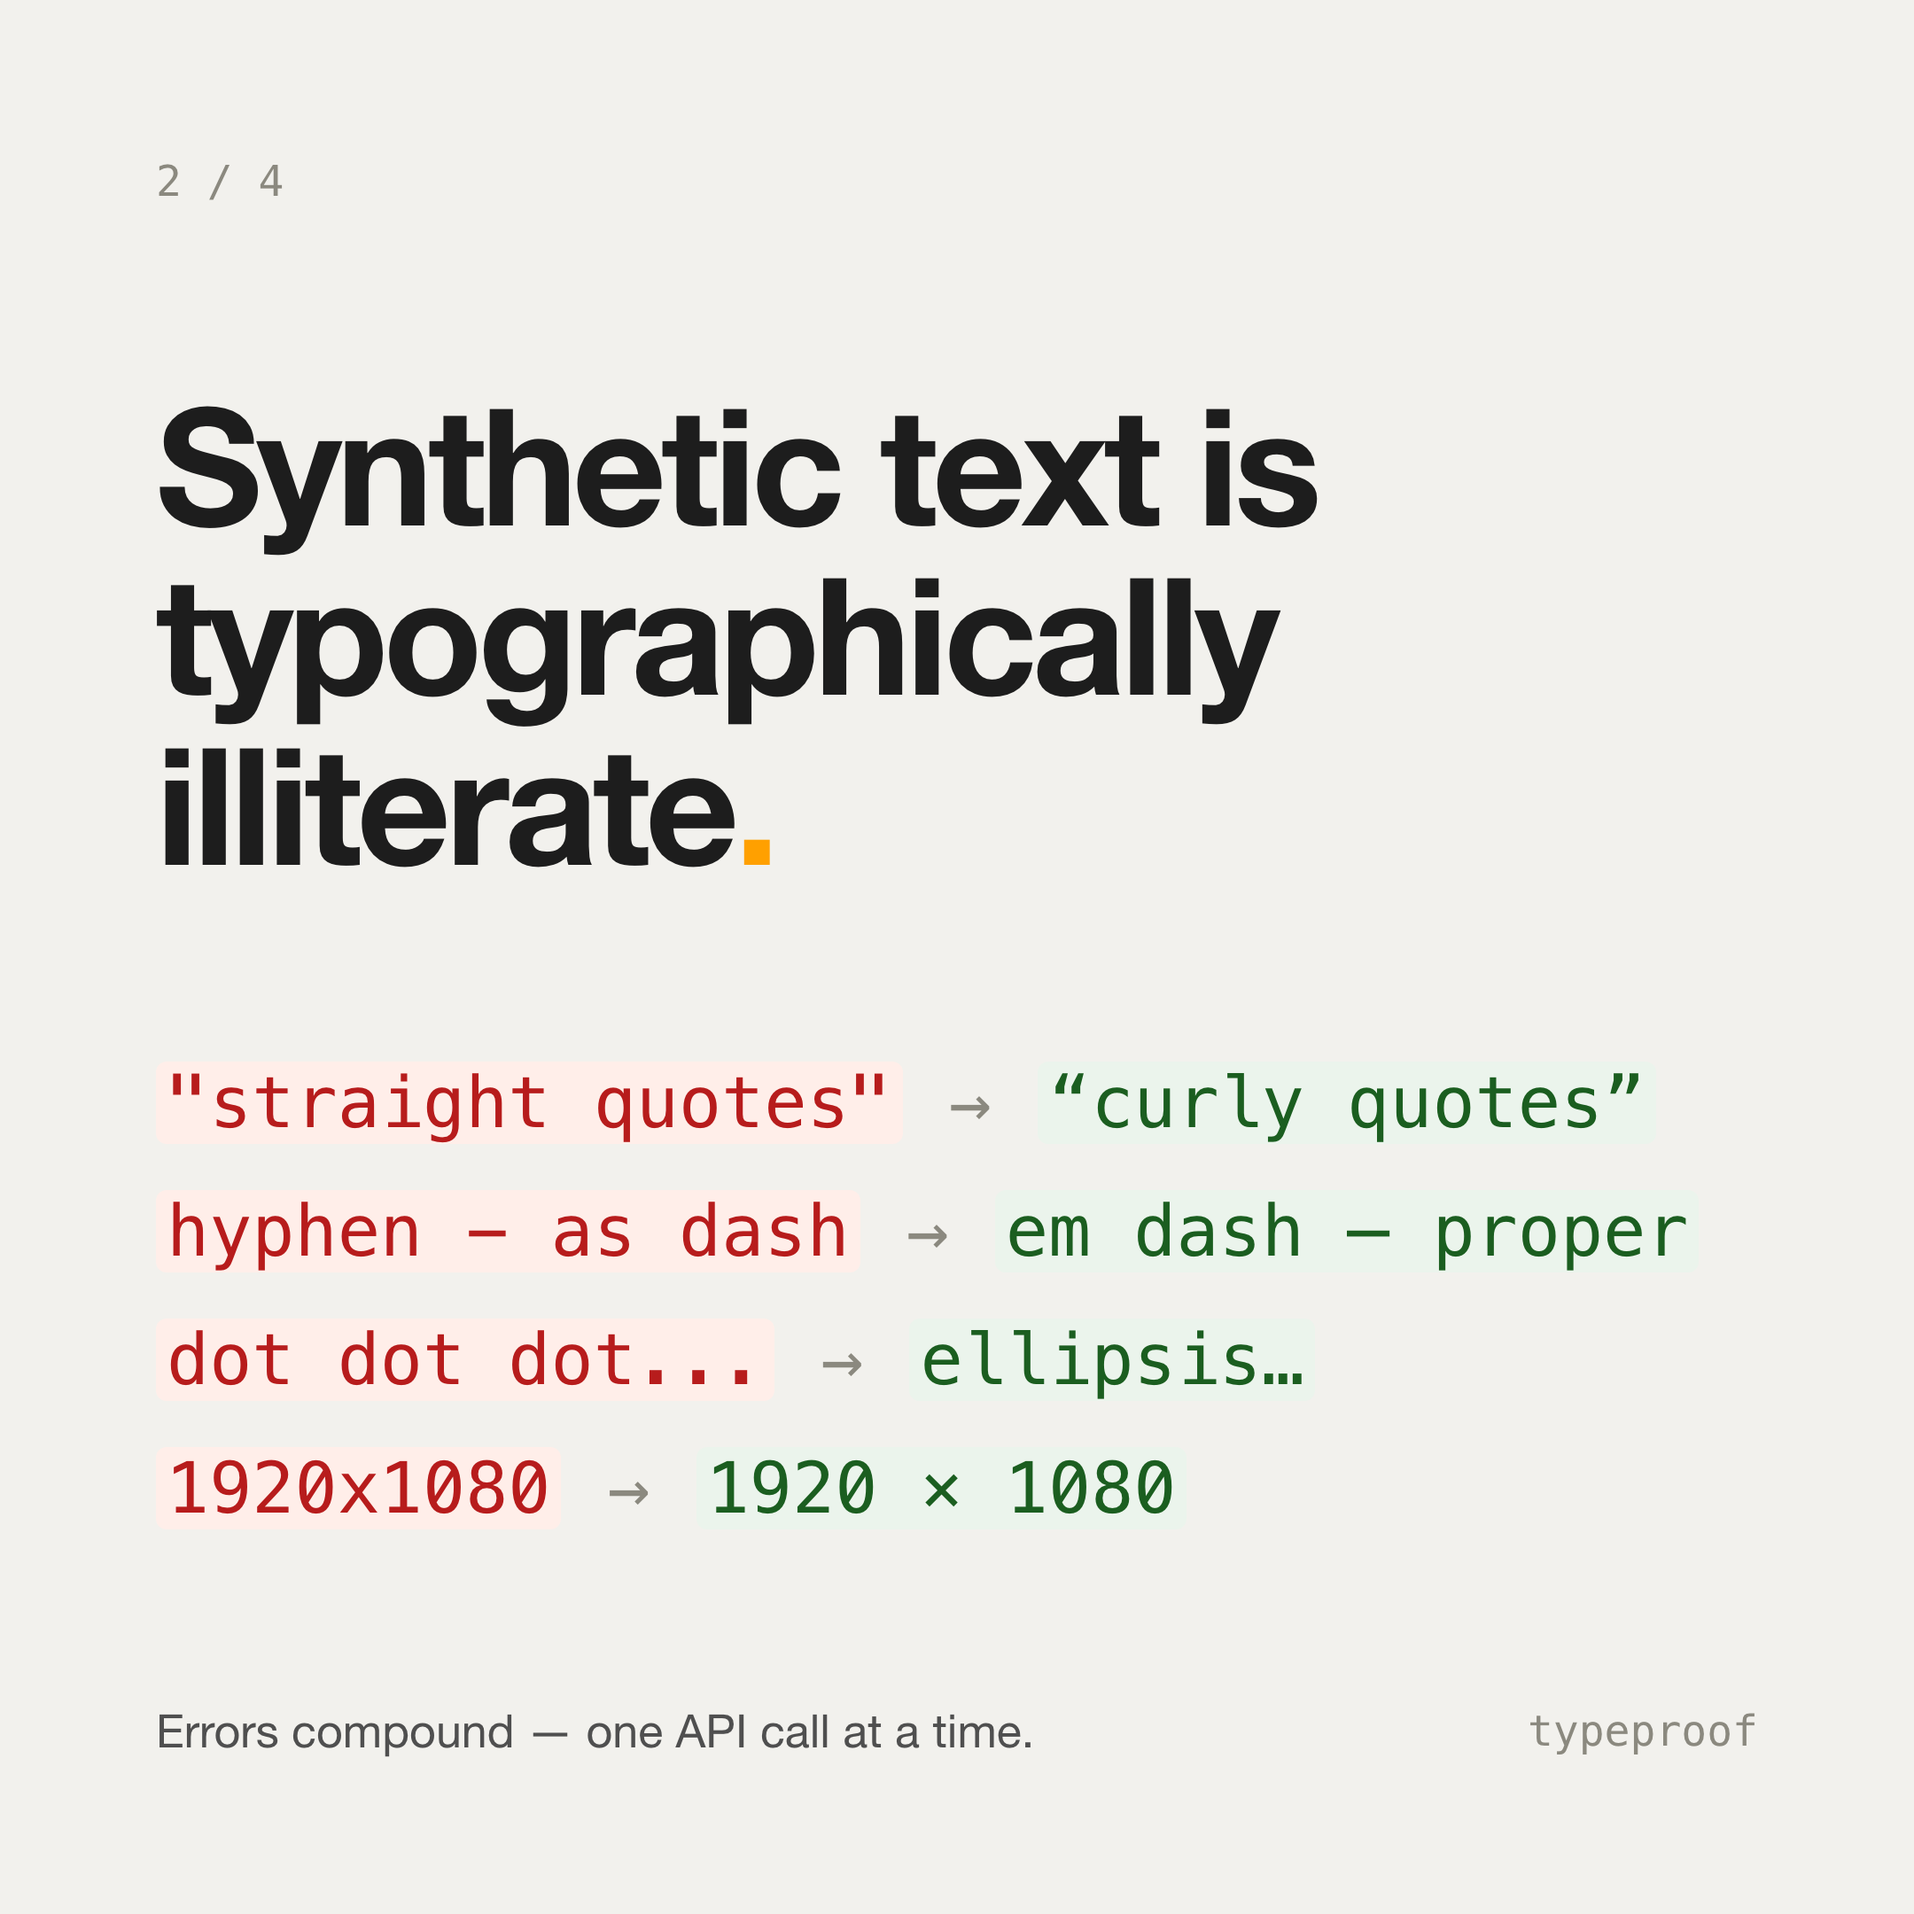
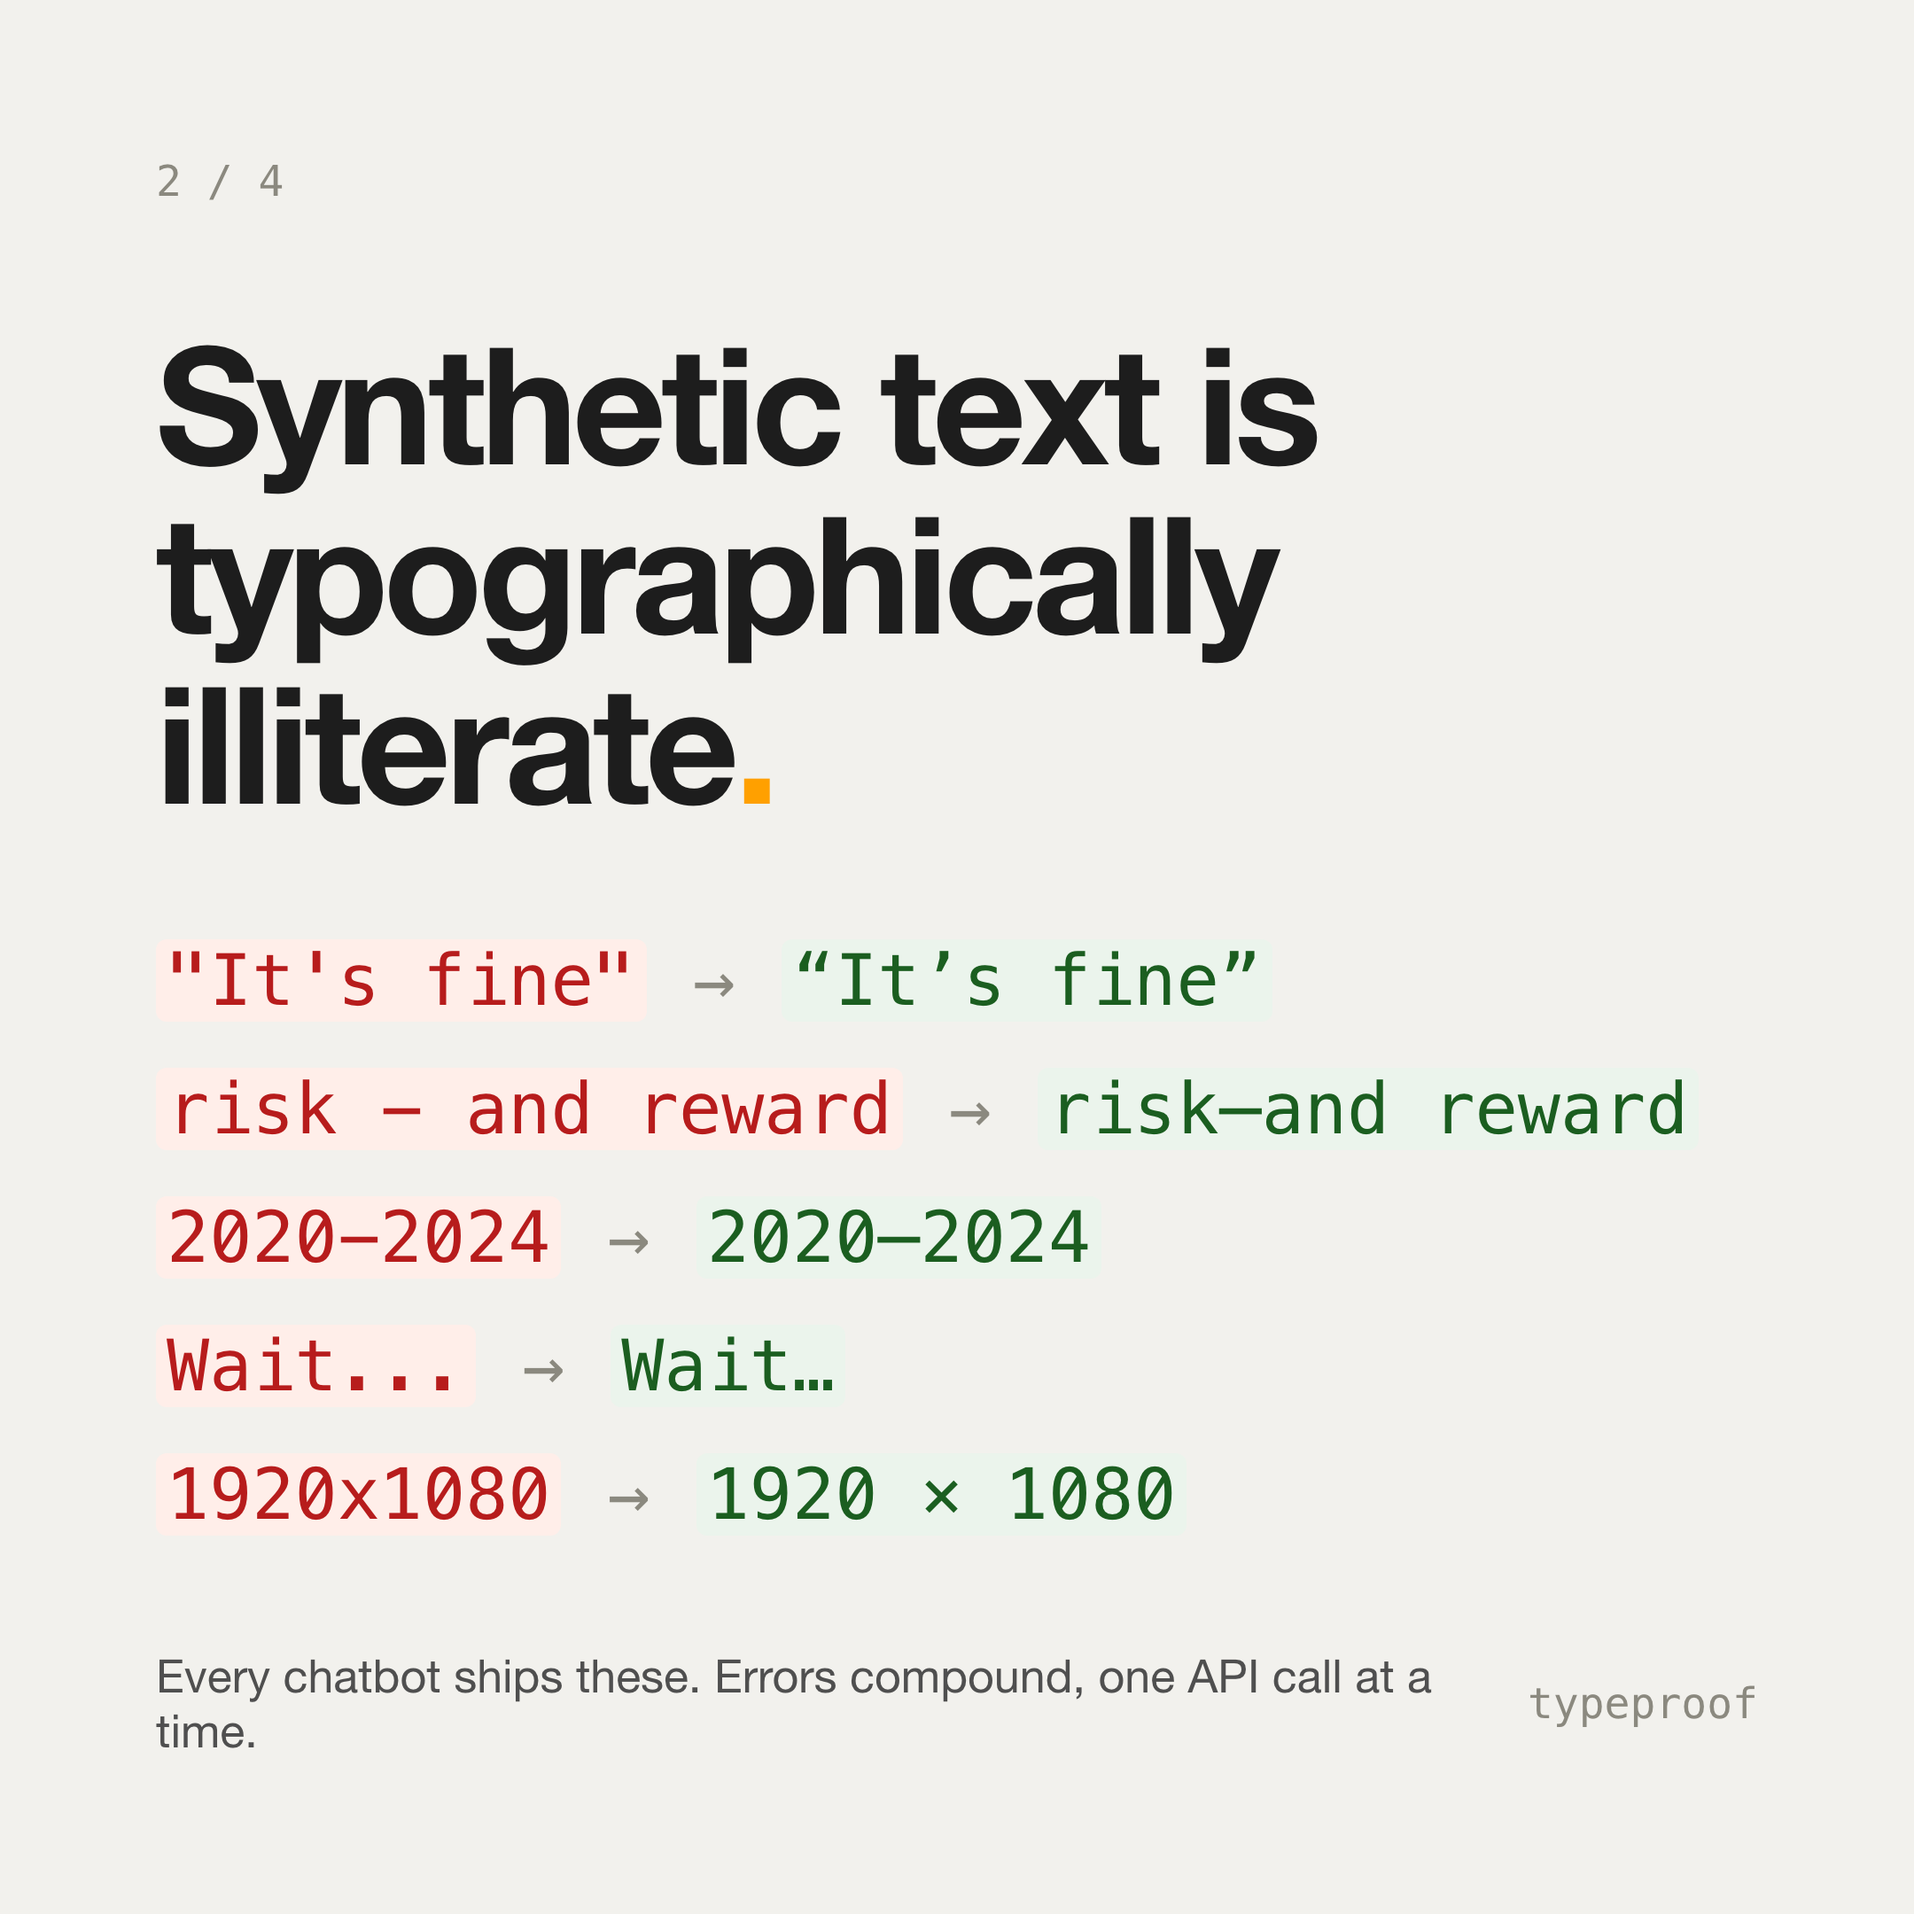
promo: recast examples as LLM output; add en-US/en-GB nuance diff
Every raw line is now tagged as LLM output — the launch story is
that synthetic text ships broken typography. The hero diff on the
LinkedIn and Discord frames corrects the same LLM sentence twice,
en-US vs en-GB: double vs single quotes, comma inside vs outside
the quote, unspaced em dash vs spaced en dash.

The language-DNA carousel frame now derives all locales from one
LLM raw ("hello") — en-US, en-GB, de-DE, pt-PT (thin spaces),
fr-FR (NNBSP), ro-RO. Problem-frame rows switched to LLM-typical
failures (straight apostrophe in contractions, spaced hyphen as
dash, range hyphen, three dots, x for dimensions).

diff --git a/promo/typeproof-social-kit.html b/promo/typeproof-social-kit.html
@@ -48,13 +48,16 @@
   .pill{border:2px solid var(--ink);border-radius:9999px;padding:8px 22px;font-size:22px;font-weight:500;}
   .pill.amber{border-color:var(--amber);background:var(--amber);color:var(--ink);}
   .ghost{position:absolute;font-weight:700;color:var(--amber-soft);line-height:1;user-select:none;z-index:0;}
+  .tag{font-family:var(--mono);font-size:19px;font-weight:500;color:var(--ink-2);background:#E7E5DF;border-radius:9999px;padding:5px 16px;margin-right:16px;white-space:nowrap;}
+  .tag.loc{color:var(--amber-dark);background:var(--amber-soft);}
   .z{position:relative;z-index:1;}
 
   /* ——— LinkedIn 1200×627 ——— */
   .f-li{width:1200px;height:627px;padding:72px 80px;box-sizing:border-box;display:flex;flex-direction:column;justify-content:space-between;}
   .f-li h3{font-size:76px;line-height:1.04;letter-spacing:-0.03em;margin:20px 0 0;font-weight:700;max-width:14ch;}
   .f-li h3 .dot{color:var(--amber);}
-  .f-li .diff{font-size:31px;display:flex;flex-direction:column;gap:14px;}
+  .f-li .diff{font-size:27px;display:flex;flex-direction:column;gap:16px;}
+  .f-li .diff > span{display:flex;align-items:center;}
   .f-li .diff .arrow{color:var(--ink-3);}
   .f-li .ghost{font-size:620px;right:20px;top:-180px;}
   .f-li .meta{display:flex;justify-content:space-between;align-items:center;font-size:24px;color:var(--ink-2);}
@@ -86,7 +89,9 @@
   .f-dc{width:1200px;height:480px;padding:64px 80px;box-sizing:border-box;display:flex;flex-direction:column;justify-content:space-between;}
   .f-dc h3{font-size:72px;margin:0;letter-spacing:-0.03em;font-weight:700;}
   .f-dc h3 .dot{color:var(--amber);}
-  .f-dc .diff{font-size:30px;display:flex;gap:20px;align-items:center;}
+  .f-dc .diff{font-size:25px;display:flex;flex-direction:column;gap:12px;}
+  .f-dc .diff > span{display:flex;align-items:center;}
+  .f-dc .tag{font-size:16px;padding:4px 12px;margin-right:12px;}
   .f-dc .meta{font-size:23px;color:var(--ink-2);display:flex;gap:28px;}
 
   /* copy blocks */
@@ -116,8 +121,9 @@
         <h3>The typography fonts can’t reach<span class="dot">.</span></h3>
       </div>
       <div class="diff z">
-        <span>He said <span class="bad">"hello"</span> <span class="bad">--</span> then left<span class="bad">...</span></span>
-        <span><span class="arrow">→&nbsp;</span>He said <span class="hl">“hello”</span> <span class="hl">—</span> then left<span class="hl">…</span></span>
+        <span><span class="tag">LLM output</span><span>The model said <span class="bad">"done",</span> paused <span class="bad">-</span> then left<span class="bad">...</span></span></span>
+        <span><span class="tag loc">en-US</span><span>The model said <span class="hl">“done,”</span> paused <span class="hl">—</span> then left<span class="hl">…</span></span></span>
+        <span><span class="tag loc">en-GB</span><span>The model said <span class="hl">‘done’,</span> paused <span class="hl">–</span> then left<span class="hl">…</span></span></span>
       </div>
       <div class="meta z">
         <span><b>34 rules</b> · <b>13 language variants</b> · open source</span>
@@ -156,7 +162,7 @@ E a parte de que mais gosto: isto precisa de falantes nativos. Se uma regra esti
 
 Demo e repositório nos comentários ⤵</p>
     </div>
-    <div class="copy"><h4>Alt text</h4><p>A line of text with straight quotes, a double hyphen and three periods is corrected to curly quotes, an em dash and an ellipsis, with the corrected glyphs highlighted in green. Headline: “The typography fonts can’t reach.”</p></div>
+    <div class="copy"><h4>Alt text</h4><p>A sentence labelled “LLM output”, written with straight quotes, a lone hyphen and three periods, is corrected twice: for en-US with double curly quotes, the comma inside the quote and an unspaced em dash; for en-GB with single quotes, the comma outside and a spaced en dash. Corrections are highlighted in green. Headline: “The typography fonts can’t reach.”</p></div>
   </section>
 
   <!-- ============ INSTAGRAM CAROUSEL ============ -->
@@ -178,24 +184,30 @@ Demo e repositório nos comentários ⤵</p>
     <div class="frame-wrap"><div class="frame f-sq">
       <div class="count">2 / 4</div>
       <h3>Synthetic text is typographically illiterate<span class="dot">.</span></h3>
-      <div class="rows diff" style="font-size:40px;">
-        <div class="row"><span class="bad">"straight quotes"</span><span class="arrow">→</span><span class="hl">“curly quotes”</span></div>
-        <div class="row"><span class="bad">hyphen - as dash</span><span class="arrow">→</span><span class="hl">em dash — proper</span></div>
-        <div class="row"><span class="bad">dot dot dot...</span><span class="arrow">→</span><span class="hl">ellipsis…</span></div>
-        <div class="row"><span class="bad">1920x1080</span><span class="arrow">→</span><span class="hl">1920 × 1080</span></div>
+      <div class="rows diff" style="font-size:38px;">
+        <div class="row"><span class="bad">"It's fine"</span><span class="arrow">→</span><span class="hl">“It’s fine”</span></div>
+        <div class="row"><span class="bad">risk - and reward</span><span class="arrow">→</span><span class="hl">risk—and reward</span></div>
+        <div class="row"><span class="bad">2020-2024</span><span class="arrow">→</span><span class="hl">2020–2024</span></div>
+        <div class="row"><span class="bad">Wait...</span><span class="arrow">→</span><span class="hl">Wait…</span></div>
+        <div class="row"><span class="bad">1920x1080</span><span class="arrow">→</span><span class="hl">1920 × 1080</span></div>
       </div>
-      <div class="foot"><span>Errors compound — one API call at a time.</span><span class="count">typeproof</span></div>
+      <div class="foot"><span>Every chatbot ships these. Errors compound, one API call at a time.</span><span class="count">typeproof</span></div>
     </div></div>
 
     <div class="frame-wrap"><div class="frame f-sq">
       <div class="count">3 / 4</div>
-      <h3>Every language has its own typographic DNA<span class="dot">.</span></h3>
-      <div class="rows">
-        <div class="row"><span class="lang">en-US</span><span>“Typography matters.”</span></div>
-        <div class="row"><span class="lang">de-DE</span><span>„Typografie zählt.“</span></div>
-        <div class="row"><span class="lang">pt-PT</span><span>« A tipografia conta. »</span></div>
-        <div class="row"><span class="lang">fr-FR</span><span>« La typographie compte ! »</span></div>
-        <div class="row"><span class="lang">ro-RO</span><span>„Tipografia contează.”</span></div>
+      <div style="display:flex;flex-direction:column;gap:24px;">
+        <h3 style="font-size:80px;">Every language has its own typographic DNA<span class="dot">.</span></h3>
+        <div class="sub">An LLM writes them all the same way.</div>
+      </div>
+      <div class="rows" style="gap:22px;">
+        <div class="row"><span class="tag">LLM</span><span class="bad">"hello"</span></div>
+        <div class="row"><span class="lang">en-US</span><span class="hl">“hello”</span></div>
+        <div class="row"><span class="lang">en-GB</span><span class="hl">‘hello’</span></div>
+        <div class="row"><span class="lang">de-DE</span><span class="hl">„hallo“</span></div>
+        <div class="row"><span class="lang">pt-PT</span><span class="hl">« olá »</span></div>
+        <div class="row"><span class="lang">fr-FR</span><span class="hl">« bonjour »</span></div>
+        <div class="row"><span class="lang">ro-RO</span><span class="hl">„salut”</span></div>
       </div>
       <div class="foot"><span>13 language variants · 34 deterministic rules</span><span class="count">typeproof</span></div>
     </div></div>
@@ -241,10 +253,12 @@ Feito em aberto. Procuram-se falantes nativos — link na bio.
         <h3 style="margin-top:28px;">Watch the green diff<span class="dot">.</span></h3>
       </div>
       <div class="diff">
+        <span class="tag" style="align-self:flex-start;">LLM output</span>
         <span>She replied <span class="bad">"goodbye"</span> <span class="bad">--</span></span>
         <span>then walked away<span class="bad">...</span></span>
-        <span style="height:22px;"></span>
-        <span><span style="color:var(--ink-3);">→&nbsp;</span>She replied <span class="hl">“goodbye”</span> <span class="hl">—</span></span>
+        <span style="height:30px;"></span>
+        <span class="tag loc" style="align-self:flex-start;">typeproof · en-US</span>
+        <span>She replied <span class="hl">“goodbye”</span> <span class="hl">—</span></span>
         <span>then walked away<span class="hl">…</span></span>
       </div>
       <div class="cta">
@@ -264,7 +278,9 @@ Feito em aberto. Procuram-se falantes nativos — link na bio.
         <h3>Typeproof<span class="dot">.</span> Lint your typography<span class="dot">.</span></h3>
       </div>
       <div class="diff">
-        <span class="bad">"hello" -- world...</span><span style="color:var(--ink-3);">→</span><span class="hl">“hello” — world…</span>
+        <span><span class="tag">LLM output</span><span><span class="bad">"done",</span> he said <span class="bad">-</span> moving on<span class="bad">...</span></span></span>
+        <span><span class="tag loc">en-US</span><span><span class="hl">“done,”</span> he said <span class="hl">—</span> moving on<span class="hl">…</span></span></span>
+        <span><span class="tag loc">en-GB</span><span><span class="hl">‘done’,</span> he said <span class="hl">–</span> moving on<span class="hl">…</span></span></span>
       </div>
       <div class="meta"><span>34 rules · 13 language variants · pure Python</span><span>github.com/tudotype/typeproof</span></div>
     </div></div>
